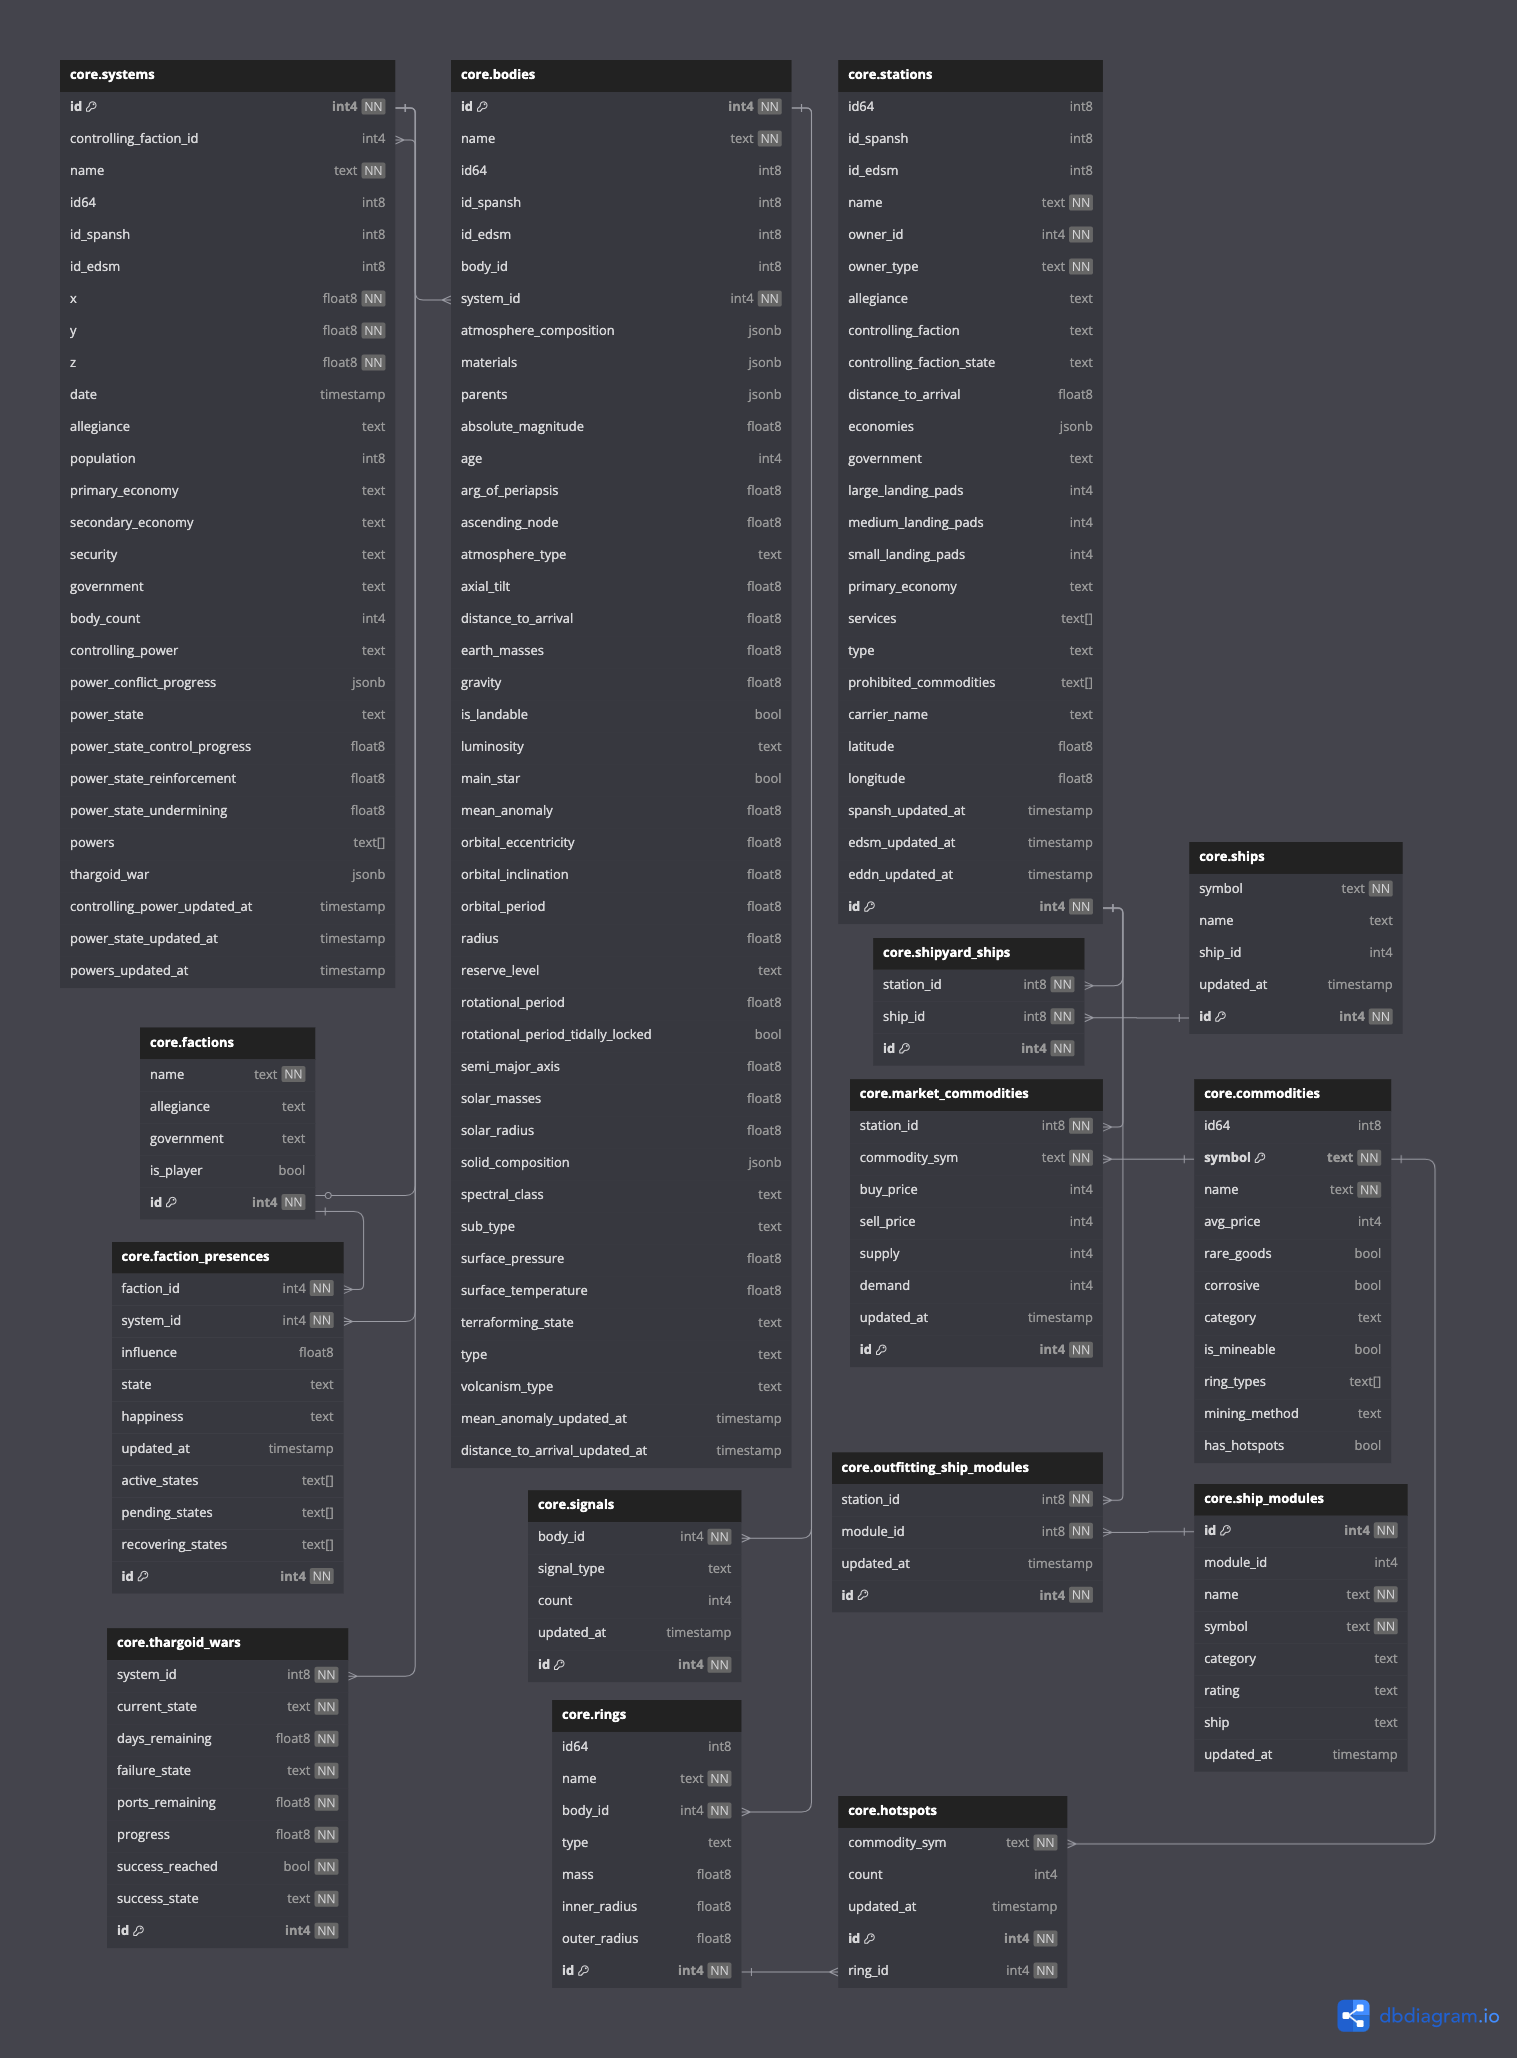
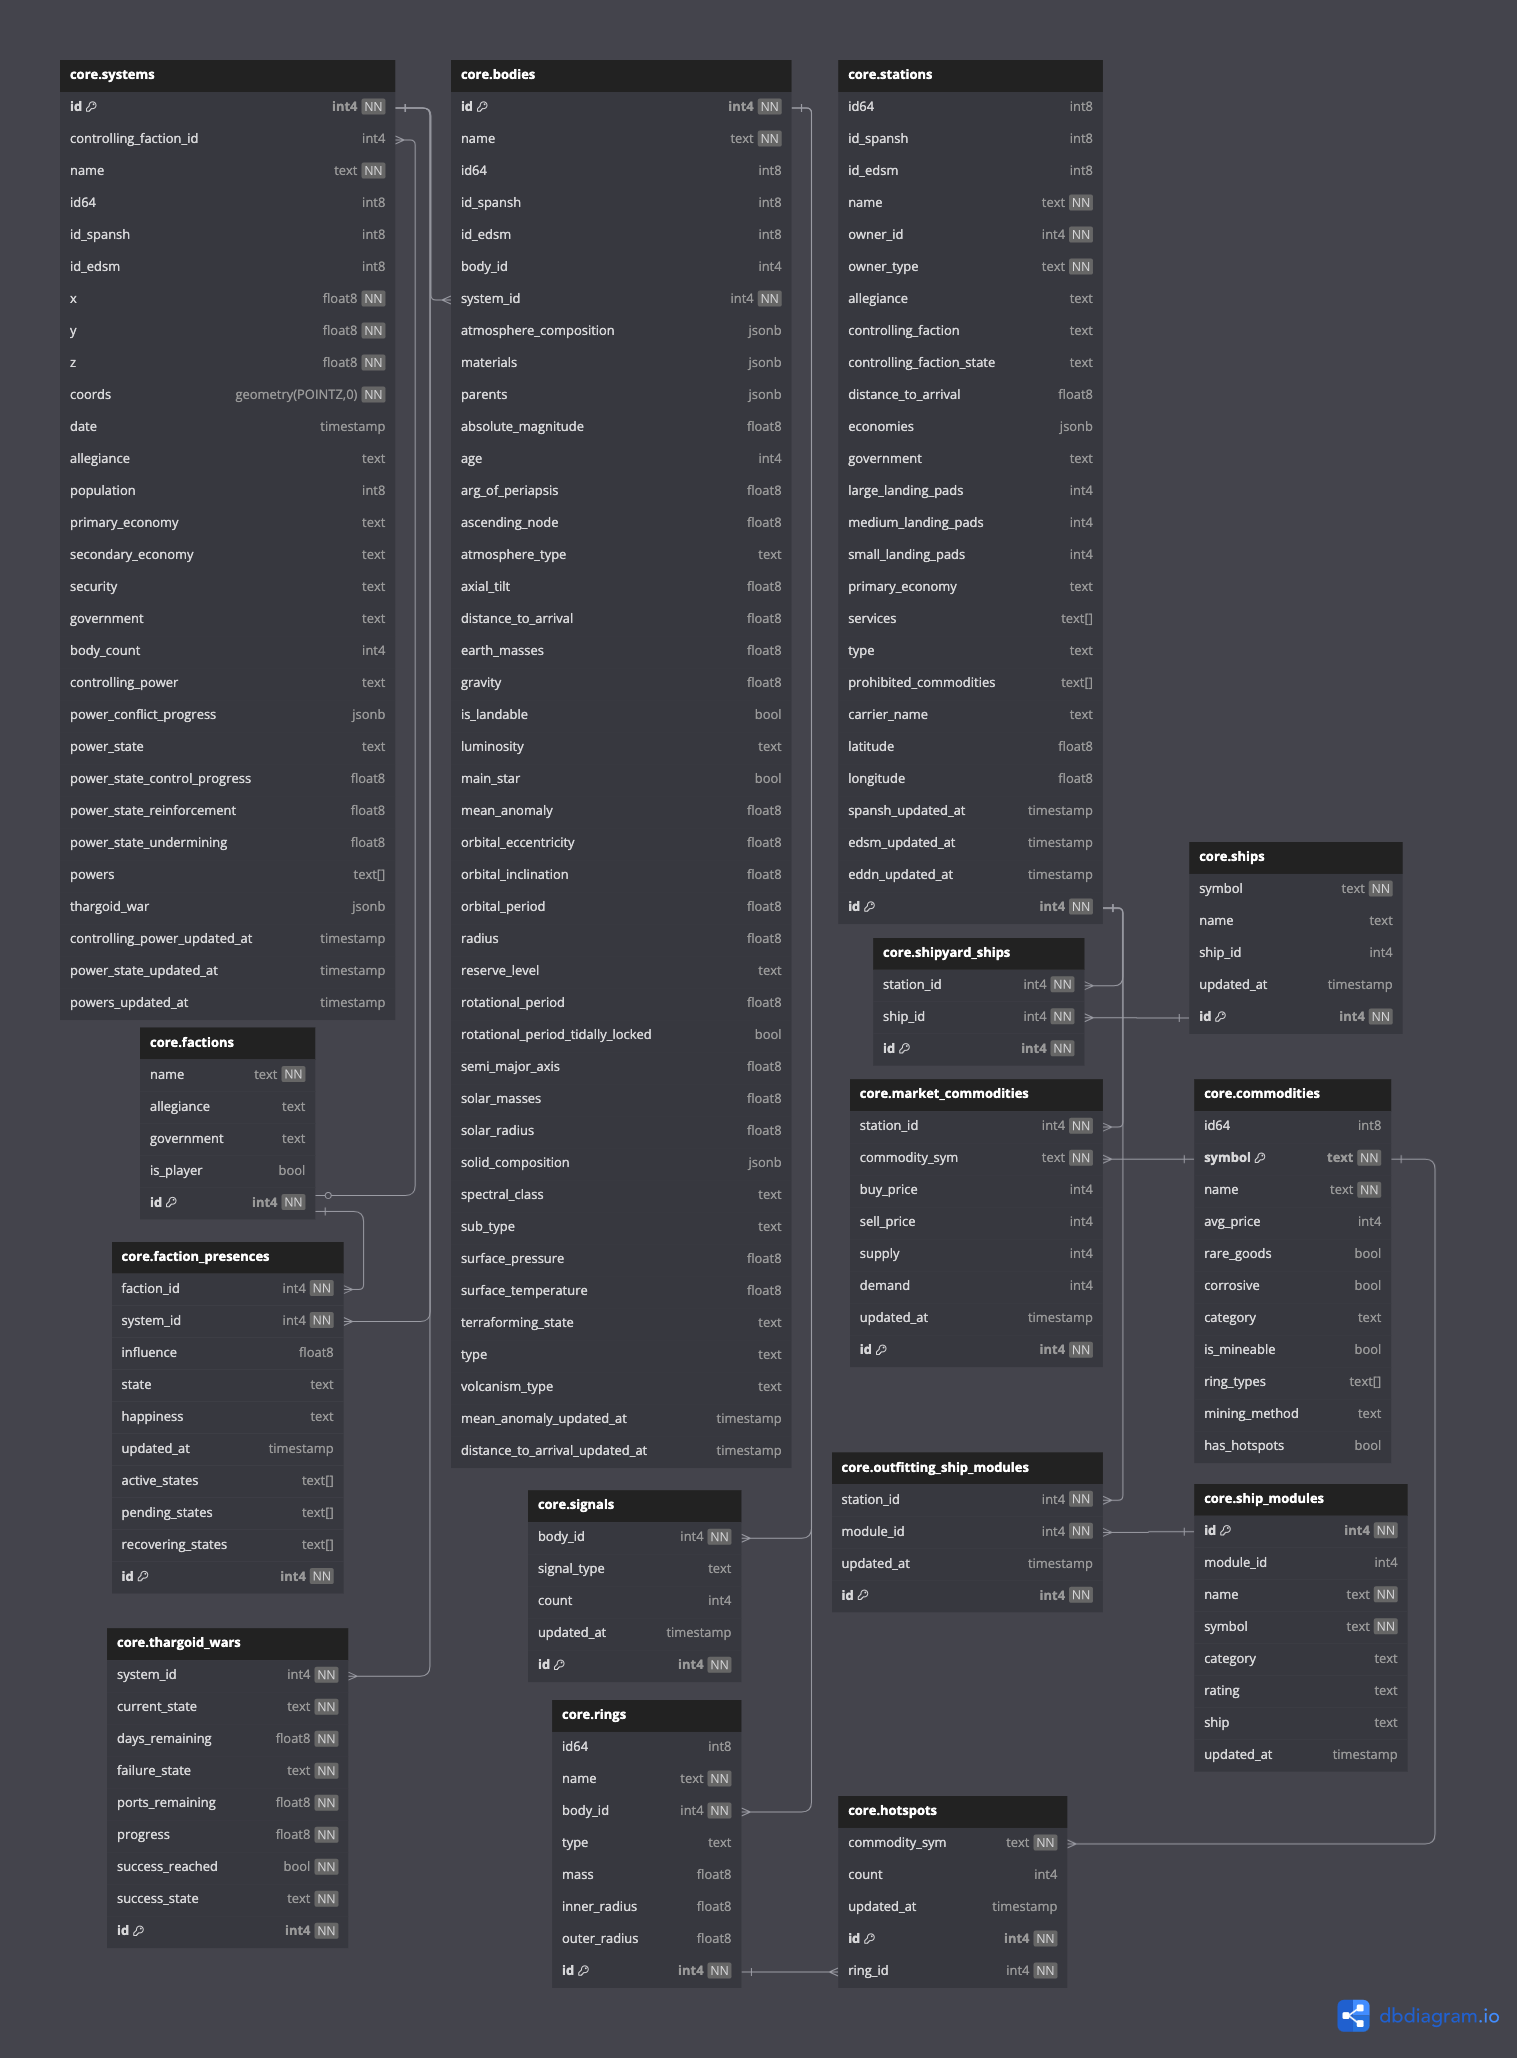
Correct mismatched int4 vs int8

Changed region(s): [[0.062, 0.2177, 0.1549, 0.4043], [0.062, 0.4043, 0.1549, 0.4976], [0.2169, 0.1866, 0.2479, 0.2177]]

diff --git a/src/adapters/persistence/postgresql/db.py b/src/adapters/persistence/postgresql/db.py
@@ -43,7 +43,7 @@ class BodiesDB(BaseModelWithId):
     id_spansh: Mapped[Optional[int]] = mapped_column(BigInteger)
     id_edsm: Mapped[Optional[int]] = mapped_column(BigInteger)
 
-    body_id: Mapped[Optional[int]] = mapped_column(BigInteger)  # The "idx" of the body _within the system_
+    body_id: Mapped[Optional[int]] = mapped_column(Integer)  # The "idx" of the body _within the system_
 
     system_id: Mapped[int] = mapped_column(ForeignKey("core.systems.id"), nullable=False, index=True)
     system: Mapped["SystemsDB"] = relationship(back_populates="bodies")
@@ -209,7 +209,7 @@ class StationsDB(BaseModelWithId):
     id_edsm: Mapped[Optional[int]] = mapped_column(BigInteger)
     name: Mapped[str] = mapped_column(Text, nullable=False, index=True)  # Station name is NOT unique
 
-    owner_id: Mapped[int] = mapped_column(BigInteger, nullable=False, index=True)
+    owner_id: Mapped[int] = mapped_column(Integer, nullable=False, index=True)
     owner_type: Mapped[str] = mapped_column(Text, nullable=False, index=True)
 
     allegiance: Mapped[Optional[str]] = mapped_column(Text)
@@ -324,7 +324,7 @@ class MarketCommoditiesDB(BaseModelWithId):
         {"schema": "core"},
     )
 
-    station_id: Mapped[int] = mapped_column(BigInteger, ForeignKey("core.stations.id"), nullable=False, index=True)
+    station_id: Mapped[int] = mapped_column(Integer, ForeignKey("core.stations.id"), nullable=False, index=True)
     commodity_sym: Mapped[str] = mapped_column(Text, ForeignKey("core.commodities.symbol"), nullable=False)
 
     buy_price: Mapped[Optional[int]] = mapped_column(Integer)
@@ -354,9 +354,9 @@ class ShipyardShipsDB(BaseModelWithId):
     __tablename__ = "shipyard_ships"
     __table_args__ = {"schema": "core"}
 
-    station_id: Mapped[int] = mapped_column(BigInteger, ForeignKey("core.stations.id"), nullable=False, index=True)
+    station_id: Mapped[int] = mapped_column(Integer, ForeignKey("core.stations.id"), nullable=False, index=True)
     ship_id: Mapped[int] = mapped_column(
-        BigInteger, ForeignKey("core.ships.id"), nullable=False
+        Integer, ForeignKey("core.ships.id"), nullable=False
     )  # Small lookup table; no index
 
     def __repr__(self) -> str:
@@ -383,9 +383,9 @@ class OutfittingShipModulesDB(BaseModelWithId):
     __tablename__ = "outfitting_ship_modules"
     __table_args__ = {"schema": "core"}
 
-    station_id: Mapped[int] = mapped_column(BigInteger, ForeignKey("core.stations.id"), nullable=False, index=True)
+    station_id: Mapped[int] = mapped_column(Integer, ForeignKey("core.stations.id"), nullable=False, index=True)
     module_id: Mapped[int] = mapped_column(
-        BigInteger, ForeignKey("core.ship_modules.id"), nullable=False
+        Integer, ForeignKey("core.ship_modules.id"), nullable=False
     )  # Small lookup table; no index
     updated_at: Mapped[Optional[DateTime]] = mapped_column(DateTime)
 
@@ -397,7 +397,7 @@ class ThargoidWarDB(BaseModelWithId):
     __tablename__ = "thargoid_wars"
     __table_args__ = {"schema": "core"}
 
-    system_id: Mapped[int] = mapped_column(BigInteger, ForeignKey("core.systems.id"), nullable=False, index=True)
+    system_id: Mapped[int] = mapped_column(Integer, ForeignKey("core.systems.id"), nullable=False, index=True)
 
     current_state: Mapped[str] = mapped_column(Text)
     days_remaining: Mapped[float] = mapped_column(Float)

diff --git a/src/alembic/versions/2025-05-06_6b82a9368504_create_initial_tables.py b/src/alembic/versions/2025-05-06_6b82a9368504_create_initial_tables.py
@@ -84,7 +84,7 @@ def upgrade() -> None:
         sa.Column("id_spansh", sa.BigInteger(), nullable=True),
         sa.Column("id_edsm", sa.BigInteger(), nullable=True),
         sa.Column("name", sa.Text(), nullable=False),
-        sa.Column("owner_id", sa.BigInteger(), nullable=False),
+        sa.Column("owner_id", sa.Integer(), nullable=False),
         sa.Column("owner_type", sa.Text(), nullable=False),
         sa.Column("allegiance", sa.Text(), nullable=True),
         sa.Column("controlling_faction", sa.Text(), nullable=True),
@@ -115,7 +115,7 @@ def upgrade() -> None:
     op.create_index(op.f("ix_core_stations_owner_type"), "stations", ["owner_type"], unique=False, schema="core")
     op.create_table(
         "market_commodities",
-        sa.Column("station_id", sa.BigInteger(), nullable=False),
+        sa.Column("station_id", sa.Integer(), nullable=False),
         sa.Column("commodity_sym", sa.Text(), nullable=False),
         sa.Column("buy_price", sa.Integer(), nullable=True),
         sa.Column("sell_price", sa.Integer(), nullable=True),
@@ -140,8 +140,8 @@ def upgrade() -> None:
     )
     op.create_table(
         "outfitting_ship_modules",
-        sa.Column("station_id", sa.BigInteger(), nullable=False),
-        sa.Column("module_id", sa.BigInteger(), nullable=False),
+        sa.Column("station_id", sa.Integer(), nullable=False),
+        sa.Column("module_id", sa.Integer(), nullable=False),
         sa.Column("updated_at", sa.DateTime(), nullable=True),
         sa.Column("id", sa.Integer(), nullable=False),
         sa.ForeignKeyConstraint(
@@ -164,8 +164,8 @@ def upgrade() -> None:
     )
     op.create_table(
         "shipyard_ships",
-        sa.Column("station_id", sa.BigInteger(), nullable=False),
-        sa.Column("ship_id", sa.BigInteger(), nullable=False),
+        sa.Column("station_id", sa.Integer(), nullable=False),
+        sa.Column("ship_id", sa.Integer(), nullable=False),
         sa.Column("id", sa.Integer(), nullable=False),
         sa.ForeignKeyConstraint(
             ["ship_id"],
@@ -237,7 +237,7 @@ def upgrade() -> None:
         sa.Column("id64", sa.BigInteger(), nullable=True),
         sa.Column("id_spansh", sa.BigInteger(), nullable=True),
         sa.Column("id_edsm", sa.BigInteger(), nullable=True),
-        sa.Column("body_id", sa.BigInteger(), nullable=True),
+        sa.Column("body_id", sa.Integer(), nullable=True),
         sa.Column("system_id", sa.Integer(), nullable=False),
         sa.Column("atmosphere_composition", postgresql.JSONB(astext_type=sa.Text()), nullable=True),
         sa.Column("materials", postgresql.JSONB(astext_type=sa.Text()), nullable=True),
@@ -317,7 +317,7 @@ def upgrade() -> None:
     )
     op.create_table(
         "thargoid_wars",
-        sa.Column("system_id", sa.BigInteger(), nullable=False),
+        sa.Column("system_id", sa.Integer(), nullable=False),
         sa.Column("current_state", sa.Text(), nullable=False),
         sa.Column("days_remaining", sa.Float(), nullable=False),
         sa.Column("failure_state", sa.Text(), nullable=False),
